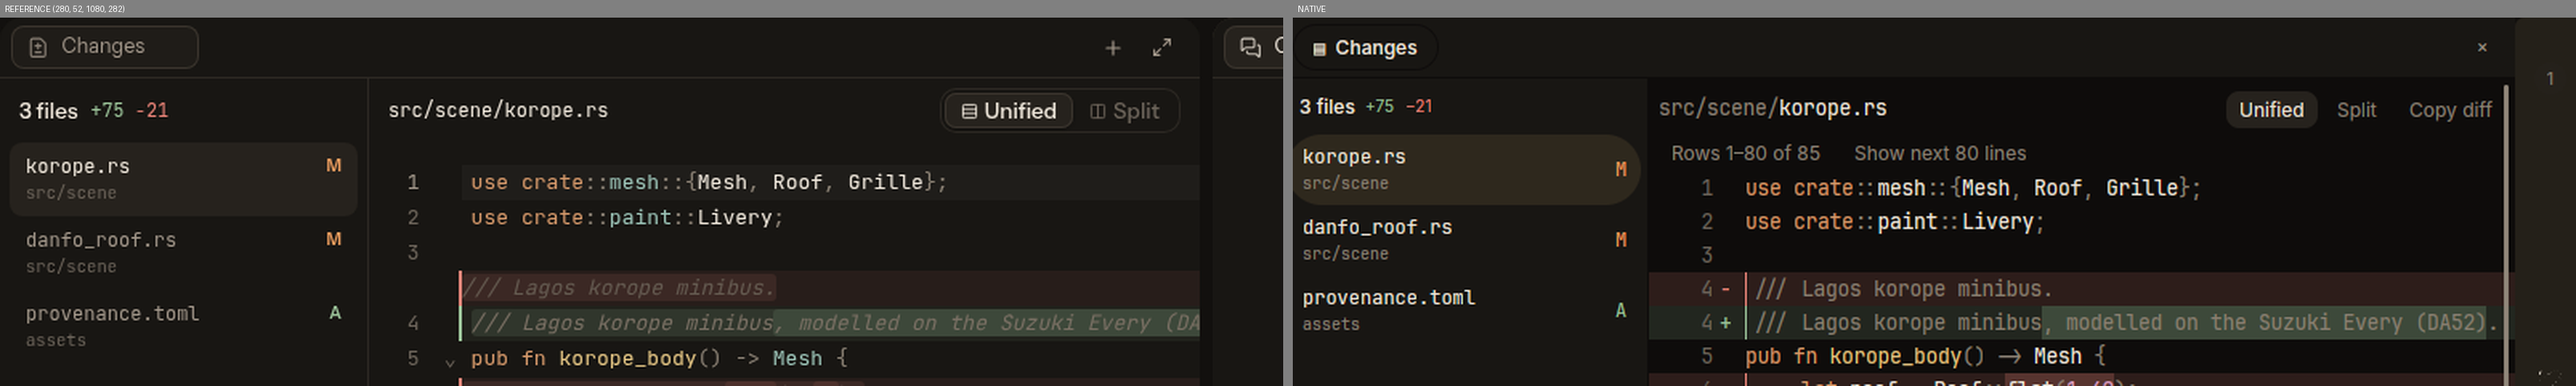
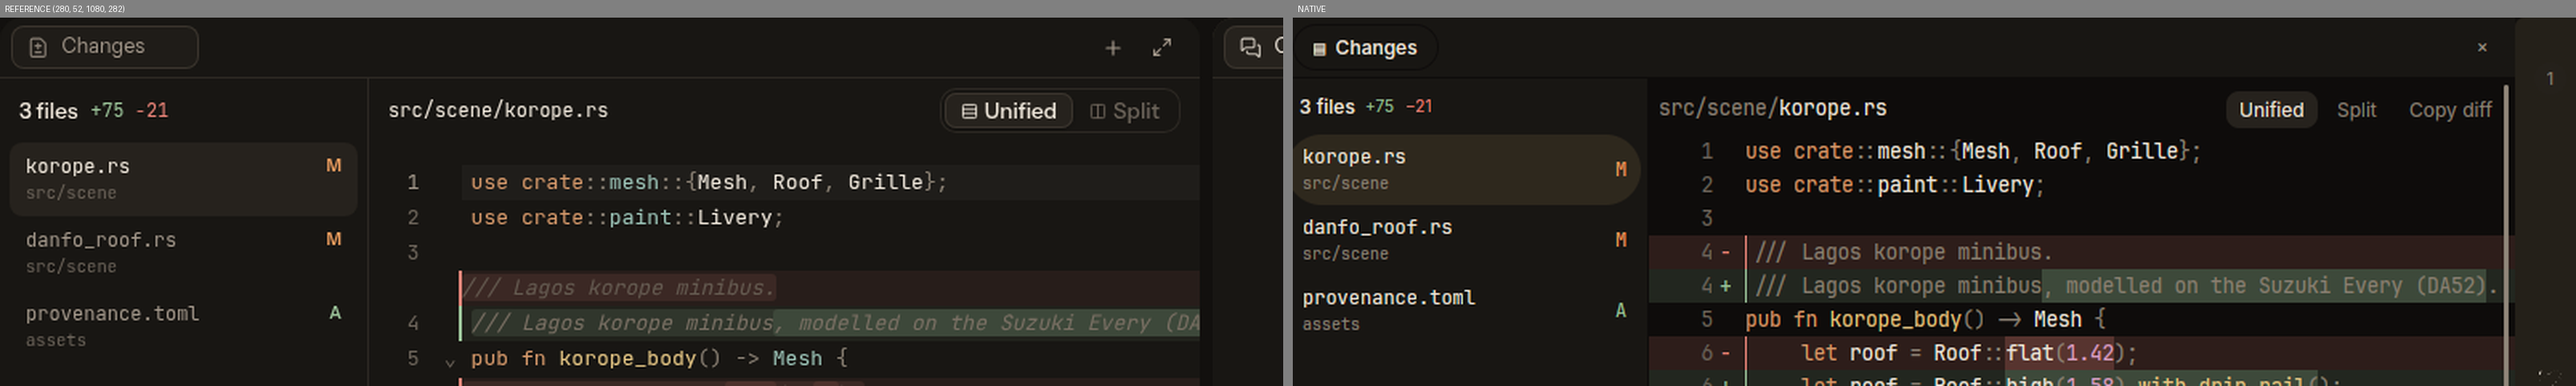
Review pane polish (final flamingo pass); 1383 UI tests pass

Changed region(s): [[0.6227, 0.5602, 0.9963, 1.0], [0.6227, 0.3734, 0.8717, 0.529]]

diff --git a/crates/jcode-desktop-ui/src/diff_view.rs b/crates/jcode-desktop-ui/src/diff_view.rs
@@ -119,6 +119,10 @@ fn split_pairs(
 }
 
 fn view_rows(file: &DiffFile, split: bool, revealed: &HashSet<(usize, usize)>) -> Vec<Row> {
+    view_rows_with_edge(file, split, revealed, CONTEXT_EDGE)
+}
+
+fn view_rows_with_edge(file: &DiffFile, split: bool, revealed: &HashSet<(usize, usize)>, edge: usize) -> Vec<Row> {
     let mut rows = Vec::new();
     for (hunk, source) in file.hunks.iter().enumerate() {
         if !source.header.is_empty() {
@@ -147,15 +151,15 @@ fn view_rows(file: &DiffFile, split: bool, revealed: &HashSet<(usize, usize)>) -
                     }));
                 }
             };
-            if context && i - start > CONTEXT_EDGE * 2 + 1 && !revealed.contains(&(hunk, start)) {
-                append(start, start + CONTEXT_EDGE);
+            if context && i - start > edge * 2 + 1 && !revealed.contains(&(hunk, start)) {
+                append(start, start + edge);
                 rows.push(Row::Fold {
                     hunk,
                     start,
                     end: i,
                 });
                 // End context always remains visible, including trailing context.
-                for line in i - CONTEXT_EDGE..i {
+                for line in i - edge..i {
                     rows.push(Row::Line {
                         hunk,
                         left: Some(line),
@@ -248,6 +252,9 @@ impl DiffView {
     /// The dedicated review pane already owns the file list and status bar.
     pub(crate) fn set_embedded(&mut self) {
         self.embedded = true;
+        for (file, state) in self.preview.files.iter().zip(&mut self.files) {
+            state.rows = view_rows_with_edge(file, self.split, &state.revealed, 6);
+        }
     }
 
     pub fn set_status(&mut self, done: bool, failed: bool, cx: &mut Context<Self>) {
@@ -274,7 +281,8 @@ impl DiffView {
             Control::Unified | Control::Split => {
                 self.split = matches!(control, Control::Split);
                 for (file, state) in self.preview.files.iter().zip(&mut self.files) {
-                    state.rows = view_rows(file, self.split, &state.revealed);
+                    state.rows = view_rows_with_edge(file, self.split, &state.revealed,
+                        if self.embedded { 6 } else { CONTEXT_EDGE });
                     state.page = 0;
                 }
             }
@@ -283,7 +291,8 @@ impl DiffView {
             Control::Reveal { file, hunk, start } => {
                 let state = &mut self.files[file];
                 state.revealed.insert((hunk, start));
-                state.rows = view_rows(&self.preview.files[file], self.split, &state.revealed);
+                state.rows = view_rows_with_edge(&self.preview.files[file], self.split, &state.revealed,
+                    if self.embedded { 6 } else { CONTEXT_EDGE });
             }
             Control::Page { file, next } => {
                 let state = &mut self.files[file];
@@ -621,7 +630,7 @@ impl DiffView {
         }
         let start = state.page * PAGE_LINES;
         let end = (start + PAGE_LINES).min(state.rows.len());
-        if state.rows.len() > PAGE_LINES {
+        if state.rows.len() > PAGE_LINES && !self.embedded {
             card = card.child(
                 div()
                     .flex()
@@ -716,7 +725,7 @@ impl DiffView {
                         .into_any_element(),
                     Row::Fold { hunk, start, end } => self.control(
                         format!("diff-reveal-{index}-{hunk}-{start}"),
-                        format!("↕ Show {} unchanged lines", end - start - CONTEXT_EDGE * 2),
+                        format!("↕ Show {} unchanged lines", end - start - if self.embedded { 12 } else { CONTEXT_EDGE * 2 }),
                         false,
                         Control::Reveal {
                             file: index,
@@ -766,6 +775,15 @@ impl DiffView {
                 .when(!self.wrap, |el| el.overflow_x_scroll())
                 .child(body),
         )
+        .when(self.embedded && state.rows.len() > PAGE_LINES, |el| {
+            el.child(div().flex().items_center().gap_1().px_2().py_1().text_size(px(11.))
+                .when(state.page > 0, |row| row.child(self.control(
+                    format!("diff-prev-{index}"), "Previous changes", false,
+                    Control::Page { file: index, next: false }, cx)))
+                .when(end < state.rows.len(), |row| row.child(self.control(
+                    format!("diff-more-{index}"), "Show more changes", false,
+                    Control::Page { file: index, next: true }, cx))))
+        })
         .into_any_element()
     }
 }
